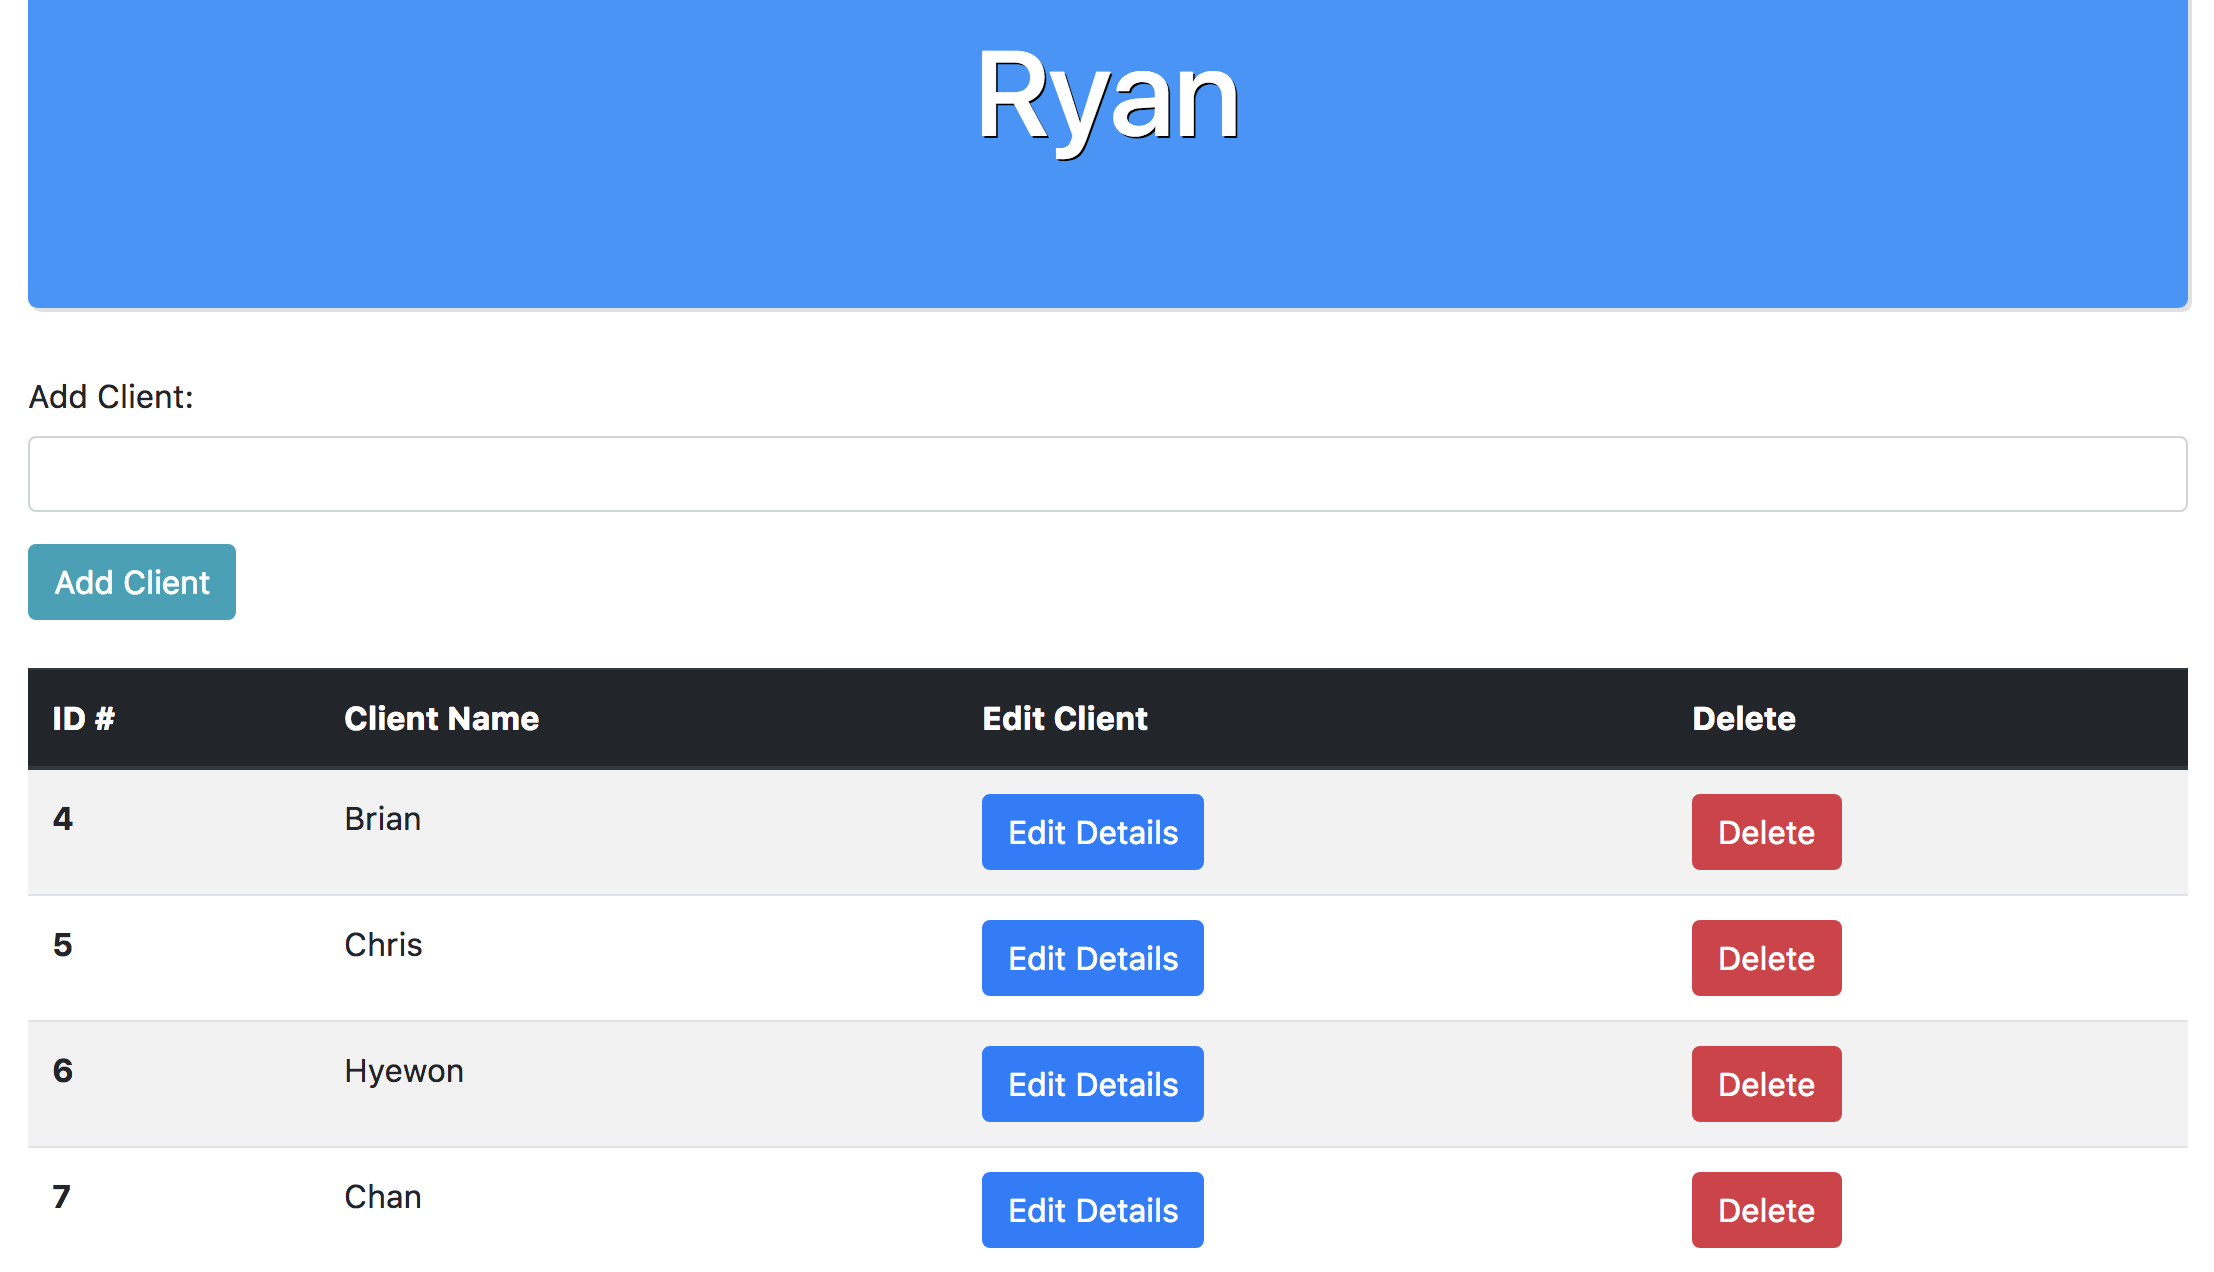
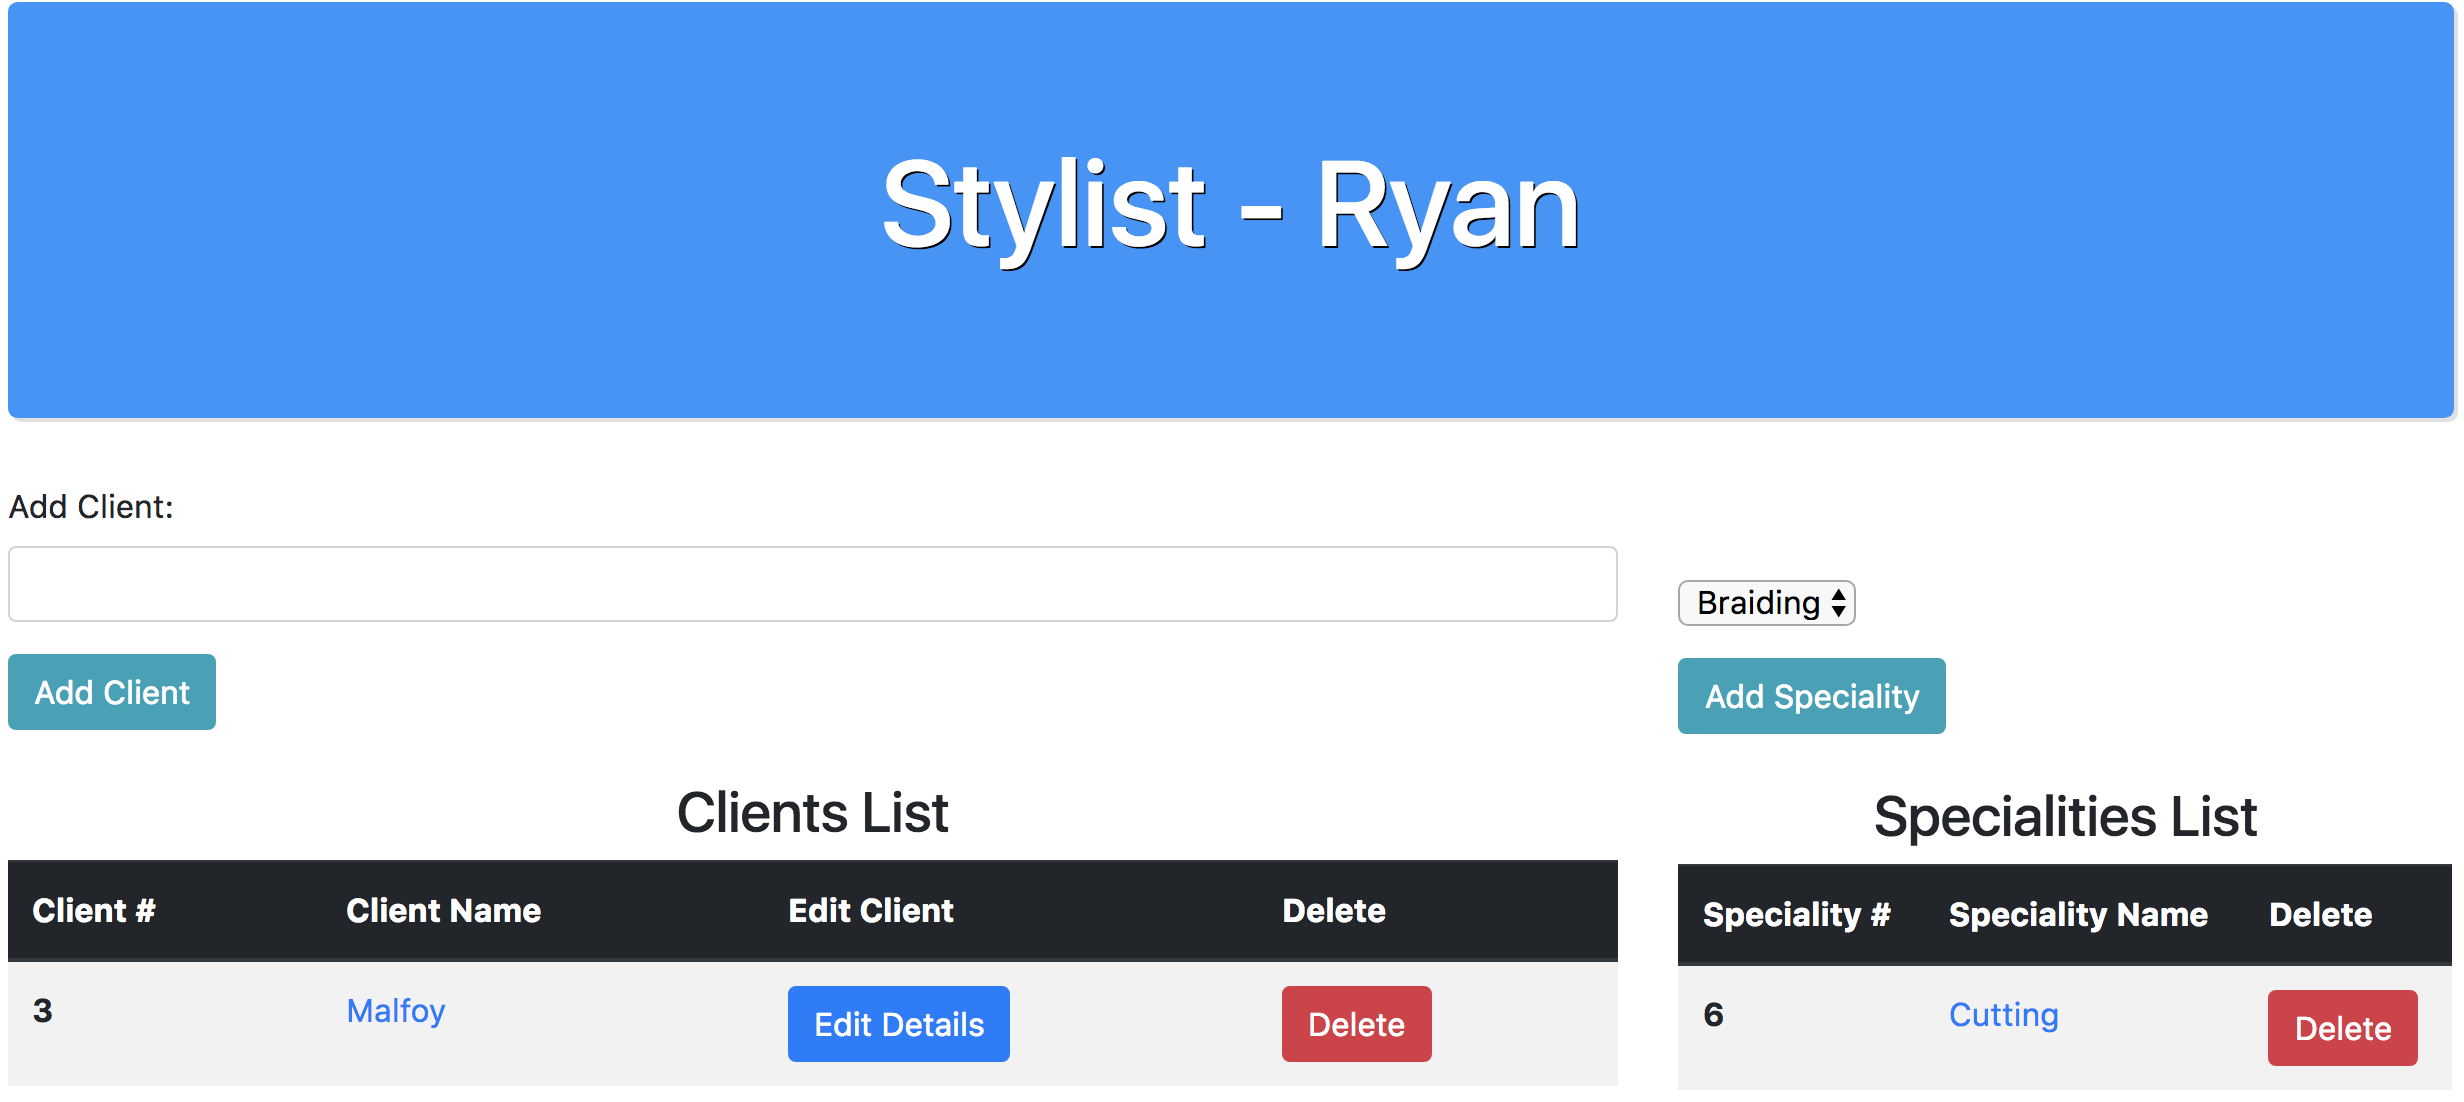
Finish updating README.md

diff --git a/README.md b/README.md
@@ -8,27 +8,35 @@ A website that uses a database to keep track of all the stylists and clients to 
 
 ## How It Works
 
-  * Homepage will have general functions such as adding new stylists, seeing the general details of stylists, editing and deleting specific stylists, and deleting all clients or stylists.
+  * Homepage will have three tabs: Stylists, Clients, Specialities. The user can click on these tabs to get a general overview of the data in each corresponding table in the MySql database.
   >![Homepage Screenshot](/HairSalon/wwwroot/img/homepage.png)
   
-  * From the homepage, the user can on the 'Details' button in the row of the stylist they want to see more specific details of that stylist. From the details page, the user can also edit the specific details of clients.
+  * From the homepage, the user can select each tab to bring up different information. There will be buttons to edit information on specific data sets or the user can click on the name of a specific data set to go to the details page of that data set.
   >![Details Screenshot](/HairSalon/wwwroot/img/details.png)
+
+  * Once the user clicks on a name and enters the page of details for a specific item they will be presented with more options. For example, once the user clicks on the name of a stylist they are presented with a list of clients that see that stylist along with a list of specialities that stylist is know for.
+
+  * From here they can enter new clients, delete or edit existing clients, add specialities or delete specialities.
 
 ## Setup/Installation Requirements
 
   1. Clone this repository.
-  > $ git clone https://github.com/HyungNLee/HairSalon.Solution.git
+  > $ git clone https://github.com/HyungNLee/HairSalon.Solution-Update.git
   2. Use the Create the database needed for this application.
   > * CREATE DATABASE hyung_lee;
   > * USE hyung_lee;
   > * CREATE TABLE clients (id serial PRIMARY KEY, name VARCHAR(255), stylist_id INT);
   > * CREATE TABLE stylists (id serial PRIMARY KEY, name VARCHAR(255));
+  > * CREATE TABLE specialities (id serial PRIMARY KEY, name VARCHAR(255));
+  > * CREATE TABLE stylists_specialities (id serial PRIMARY KEY, stylist_id INT, speciality_id INT);
   3. Start your local server using MAMP or another similar program. Adjust user information and the ports in the DBConfiguration class in HairSalon/Startup.cs if needed.
   4. Navigate into the applicaton directory using a terminal program.
-  > $ cd HairSalon.Solution/HairSalon
-  5. Run the program with the following command.
-  > dotnet run
-  6. Once it has successfully start, go to the following URL in your browser. Adjust the localhost depending on the information shown to you in the terminal.
+  > $ cd HairSalon.Solution-Update/HairSalon
+  5. Run the following command to restore the HairSalon.csproj file.
+  > $ dotnet restore
+  6. Run the program with the following command.
+  > $ dotnet run
+  7. Once it has successfully start, go to the following URL in your browser. Adjust the localhost depending on the information shown to you in the terminal.
   > http://localhost:5000/
   
 ## Known Bugs
